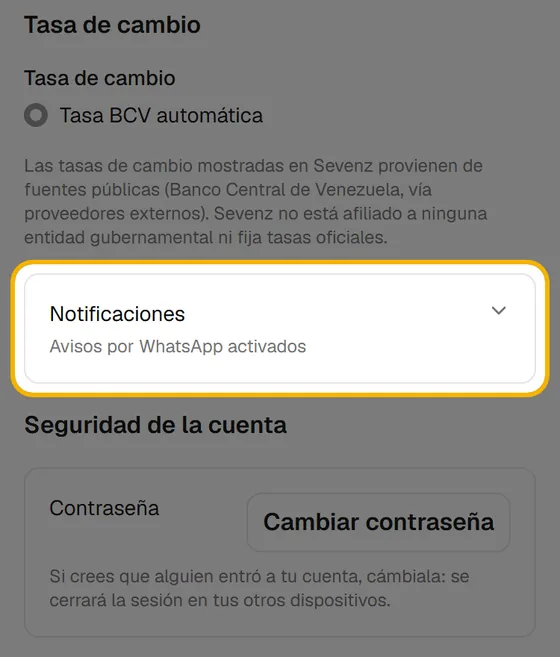
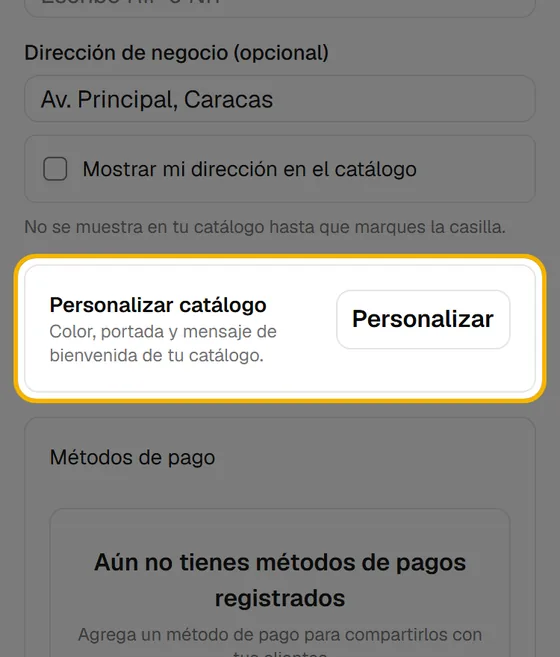
Ayuda: la casilla de la dirección pasa a Mi negocio
Mi negocio gana dos pasos (la casilla «Mostrar mi dirección en el catálogo» y la tarjeta «Personalizar catálogo») y RIF/NIT va antes de la dirección: 11 pasos. Personalizar tu catálogo pierde el paso de la casilla (9 pasos), dice que también se entra desde Mi negocio y su nota cuenta dónde está la dirección. Capturas rehechas en dev con el negocio de demostración, a 375 px. Comprobado: tsc, build, las 20 capturas cargan y sin desborde a 375 px. No probado: la Ayuda a 1280 px. En dev, sin publicar.

diff --git a/lib/soporte.ts b/lib/soporte.ts
@@ -805,17 +805,20 @@ export const TEMAS: Tema[] = [
     // v0.8.0 (CT-170, phase 1). Captures by `dashboard/scripts/ayuda/temas/personalizar.mjs
     // --finalizar`: the cover in them is drawn by the script, not a real shop, and the demo's
     // branding is put back afterwards. Labels read off the dev app on 2026-11-15.
+    // 2026-11-18: the address box moved to Mi negocio (owner's request), so its step left this
+    // topic and the address is told in a note; the screen is entered from Mi negocio too.
     slug: "personalizar-tu-catalogo",
     numero: 13,
     grupo: "una-vez",
     titulo: "Personalizar tu catálogo",
     resumen:
-      "Ponle a tu catálogo una foto de portada, un saludo para tus clientes y tu dirección. Lo ven todos los que abren tu enlace. Además guardas el color y la descripción de tu marca.",
+      "Ponle a tu catálogo una foto de portada y un saludo para tus clientes. Lo ven todos los que abren tu enlace. Además guardas el color y la descripción de tu marca.",
     descripcion:
-      "Cómo poner una portada, un mensaje de bienvenida y tu dirección en el catálogo que compartes con Sevenz, y guardar el color y la descripción de tu marca.",
+      "Cómo poner una portada y un mensaje de bienvenida en el catálogo que compartes con Sevenz, y guardar el color y la descripción de tu marca.",
     pasos: [
       {
         texto: "En [[Catálogo]], abre el menú de los tres puntos y elige [[Personalizar catálogo]].",
+        pista: "También entras desde [[Mi negocio]], con [[Personalizar]].",
         imagen: "personalizar-tu-catalogo/1",
       },
       {
@@ -841,26 +844,21 @@ export const TEMAS: Tema[] = [
         imagen: "personalizar-tu-catalogo/5",
       },
       {
-        texto: "Marca [[Mostrar mi dirección en el catálogo]] si quieres que tus clientes la vean.",
-        pista: "La dirección es la de [[Mi negocio]]. Para cambiarla, toca [[Cambiarla en Mi negocio]].",
+        texto: "Pulsa [[Ver cómo queda]] para mirarlo antes de guardar.",
         imagen: "personalizar-tu-catalogo/6",
       },
       {
-        texto: "Pulsa [[Ver cómo queda]] para mirarlo antes de guardar.",
-        imagen: "personalizar-tu-catalogo/7",
-      },
-      {
         texto: "Así lo verán tus clientes. Todavía no está guardado.",
-        imagen: "personalizar-tu-catalogo/8",
+        imagen: "personalizar-tu-catalogo/7",
       },
       {
         texto: "Pulsa [[Guardar cambios]].",
         pista: "Desde ese momento, todos los que abran tu enlace ven el catálogo con tu marca.",
-        imagen: "personalizar-tu-catalogo/9",
+        imagen: "personalizar-tu-catalogo/8",
       },
       {
         texto: "Esto es lo que ve tu cliente al abrir tu enlace.",
-        imagen: "personalizar-tu-catalogo/10",
+        imagen: "personalizar-tu-catalogo/9",
       },
     ],
     notas: [
@@ -870,8 +868,9 @@ export const TEMAS: Tema[] = [
           "Puedes poner solo la portada, solo el saludo o lo que quieras. Si no guardas nada, tu catálogo se ve como siempre. En cuanto guardas algo, la cabecera pasa a blanca, y si no subiste portada lleva una franja gris.",
       },
       {
-        titulo: "El logo y el nombre salen de Mi negocio",
-        texto: "Se cambian en [[Mi negocio]], y el catálogo los toma de ahí.",
+        titulo: "El logo, el nombre y la dirección salen de Mi negocio",
+        texto:
+          "Se cambian en [[Mi negocio]], y el catálogo los toma de ahí. La dirección solo sale si marcas [[Mostrar mi dirección en el catálogo]], debajo de la dirección.",
       },
     ],
   },
@@ -1022,9 +1021,20 @@ export const TEMAS: Tema[] = [
         // Since v0.4.0 (C1 of PL-22) the WhatsApp field only shows the number: it changes
         // from «Seguridad de la cuenta», with the password and a code to the new number.
         texto:
-          "Revisa [[Nombre del negocio]], [[Nombres del dueño]] y [[Apellidos del dueño]], y completa [[Dirección de negocio (opcional)]] y [[RIF/NIT (opcional)]] si aplican.",
+          "Revisa [[Nombre del negocio]], [[Nombres del dueño]] y [[Apellidos del dueño]], y completa [[RIF/NIT (opcional)]] y [[Dirección de negocio (opcional)]] si aplican.",
         pista: "El [[WhatsApp]] se ve aquí, pero se cambia más abajo, en Seguridad de la cuenta: te pedimos tu contraseña y un código al número nuevo.",
         imagen: "mi-negocio/3",
+      },
+      {
+        // 2026-11-18: the box moved here from «Personalizar catálogo», at the owner's request.
+        texto: "Si quieres que tus clientes vean tu dirección en el catálogo, marca [[Mostrar mi dirección en el catálogo]].",
+        pista: "Solo se puede marcar con la dirección escrita. Se aplica al pulsar [[Guardar cambios]].",
+        imagen: "mi-negocio/4",
+      },
+      {
+        texto: "En [[Personalizar catálogo]], toca [[Personalizar]] para ponerle portada y saludo a tu catálogo.",
+        pista: "Tiene su propio tema en esta guía. Si tienes cambios sin guardar aquí, te preguntamos antes de salir.",
+        imagen: "mi-negocio/5",
       },
       {
         // Since 2026-11-02 payment methods are a list, each saved on its own
@@ -1033,7 +1043,7 @@ export const TEMAS: Tema[] = [
         texto:
           "En [[Métodos de pago]] toca [[Agregar método de pago]] y escribe uno — por ejemplo tu Pago Móvil. Puedes tener varios.",
         pista: "Tu cliente no los ve en su enlace. Toca el ícono de copiar y pégalo en WhatsApp cuando te pregunte a dónde pagarte. Cada uno se guarda en cuanto lo agregas.",
-        imagen: "mi-negocio/4",
+        imagen: "mi-negocio/6",
       },
       {
         // v0.6.0: the switch's sentence is now «el resumen semanal de tu negocio y los avisos
@@ -1043,27 +1053,27 @@ export const TEMAS: Tema[] = [
         // the old collections summary, owner's decision of that day), so it names no content.
         texto: "En [[Notificaciones]] decides si recibes por WhatsApp el resumen semanal de tu negocio y los avisos de tu cuenta.",
         pista: "Llega los lunes y, si hay algo que atender, también los jueves. Lo apagas aquí mismo cuando quieras.",
-        imagen: "mi-negocio/5",
+        imagen: "mi-negocio/7",
       },
       {
         // v0.10.0 (migration 217): a second switch inside the same accordion, saved on its own.
         // It covers WhatsApp and email at once, and turning it off keeps the weekly summary.
         texto: "Toca [[Notificaciones]] para abrirla: con [[Consejos de Sevenz]] decides si te enviamos ideas para sacarle provecho a Sevenz.",
         pista: "Solo llegan durante tu prueba y si llevas días sin registrar ventas: cada 3 semanas, por WhatsApp y por correo. Apagarlos no apaga el resumen semanal.",
-        imagen: "mi-negocio/6",
+        imagen: "mi-negocio/8",
       },
       {
         texto: "En [[Seguridad de la cuenta]], con [[Cambiar contraseña]] la cambias cuando quieras.",
         pista: "Al cambiarla se cierra la sesión en tus otros dispositivos. Si tienes la verificación en dos pasos, antes te pedimos un código.",
-        imagen: "mi-negocio/7",
+        imagen: "mi-negocio/9",
       },
       {
         texto:
           "Ahí mismo cambias el [[WhatsApp de la cuenta]] con [[Cambiar]] y enciendes la [[Verificación en dos pasos]] con [[Activar]].",
         pista: "La verificación tiene su propio tema en esta guía: un código además de tu contraseña cuando entras desde un teléfono nuevo.",
-        imagen: "mi-negocio/8",
+        imagen: "mi-negocio/10",
       },
-      { texto: "Pulsa [[Guardar cambios]].", imagen: "mi-negocio/9" },
+      { texto: "Pulsa [[Guardar cambios]].", imagen: "mi-negocio/11" },
     ],
     cierre: [
       "En [[Tasa de cambio]] ves la que usa Sevenz: la del BCV, que se actualiza sola.",

diff --git a/lib/soporte-capturas.ts b/lib/soporte-capturas.ts
@@ -72,17 +72,18 @@ export const CAPTURAS: Record<string, [number, number]> = {
   "mi-negocio/6": [560, 657],
   "mi-negocio/7": [560, 657],
   "mi-negocio/8": [560, 657],
-  "mi-negocio/9": [560, 1213],
+  "mi-negocio/9": [560, 657],
+  "mi-negocio/10": [560, 657],
+  "mi-negocio/11": [560, 1213],
   "personalizar-tu-catalogo/1": [560, 657],
   "personalizar-tu-catalogo/2": [560, 657],
   "personalizar-tu-catalogo/3": [560, 657],
   "personalizar-tu-catalogo/4": [560, 657],
   "personalizar-tu-catalogo/5": [560, 657],
   "personalizar-tu-catalogo/6": [560, 657],
-  "personalizar-tu-catalogo/7": [560, 657],
-  "personalizar-tu-catalogo/8": [560, 1213],
-  "personalizar-tu-catalogo/9": [560, 657],
-  "personalizar-tu-catalogo/10": [560, 1213],
+  "personalizar-tu-catalogo/7": [560, 1213],
+  "personalizar-tu-catalogo/8": [560, 657],
+  "personalizar-tu-catalogo/9": [560, 1213],
   "registrar-un-abono/1": [560, 657],
   "registrar-un-abono/2": [560, 657],
   "registrar-un-abono/3": [560, 657],
